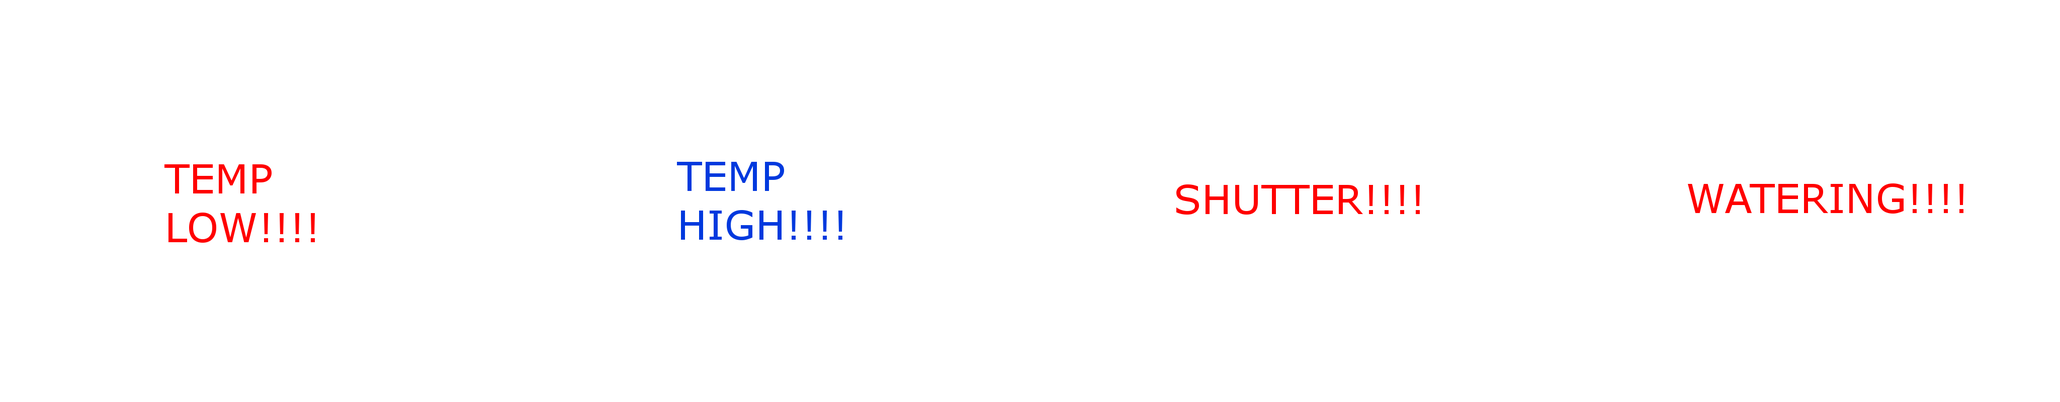
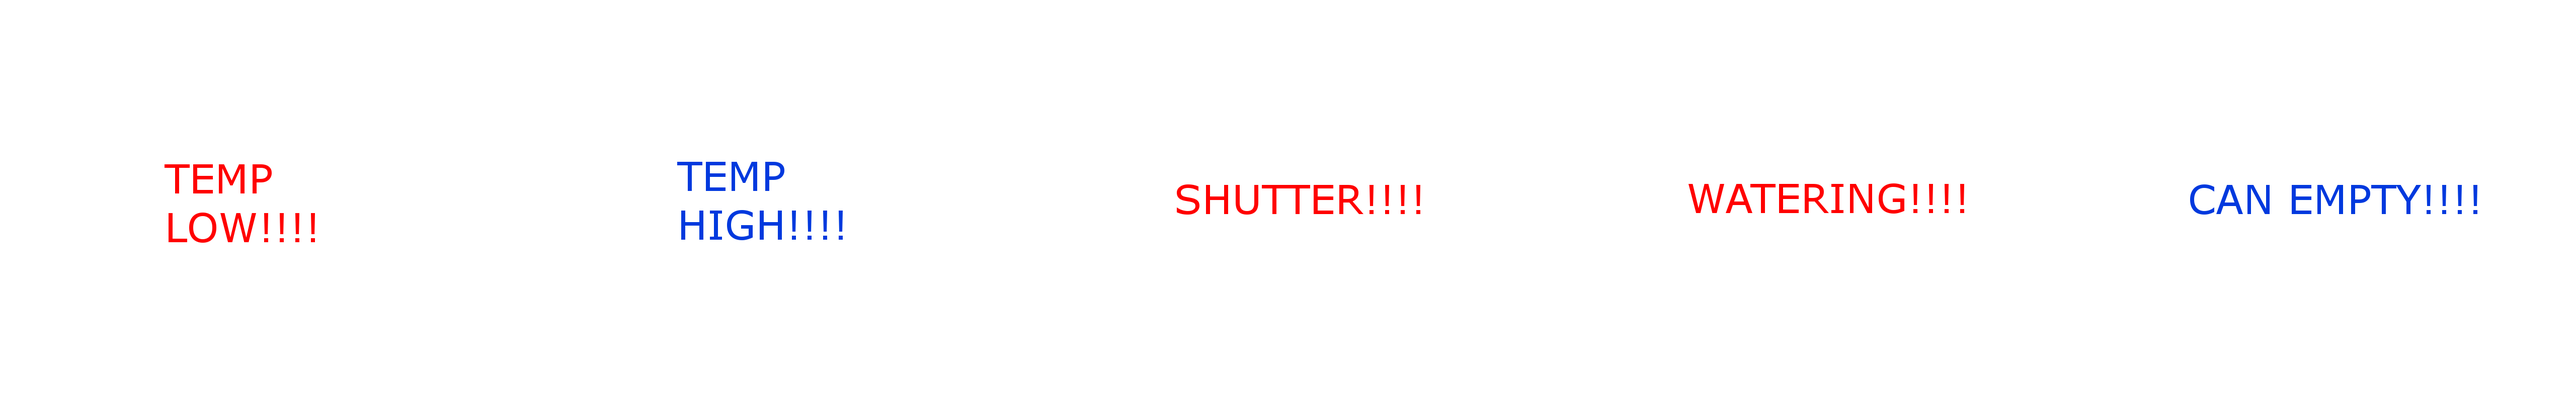
removed tutorialinputadapter; added tutorial for refilling the can

diff --git a/core/src/com/thetriumvirate/game/TutorialManager.java b/core/src/com/thetriumvirate/game/TutorialManager.java
@@ -1,6 +1,5 @@
 package com.thetriumvirate.game;
 
-import com.badlogic.gdx.InputAdapter;
 import com.badlogic.gdx.graphics.Texture;
 import com.badlogic.gdx.graphics.g2d.SpriteBatch;
 import com.badlogic.gdx.graphics.g2d.TextureRegion;
@@ -14,7 +13,7 @@ public abstract class TutorialManager {
 	private static TextureRegion[] tex_regions;
 	
 	public static enum TutState{
-		TEMP_LOW(0), TEMP_HIGH(1), SHUTTER(2), WATERING(3);
+		TEMP_LOW(0), TEMP_HIGH(1), SHUTTER(2), WATERING(3), CAN_EMPTY(4);
 		
 		private int texIndex;
 		private boolean isShown, hasBeenShown;
@@ -65,25 +64,6 @@ public abstract class TutorialManager {
 	}
 	
 	public static void dispatch(Main game) {
-		game.assetmanager.load(RES_TEX, Texture.class);
-	}
-	
-	public static TutorialInputAdapter getInputAdapter() {
-		if(adapter == null)
-			adapter = new TutorialInputAdapter();
-		
-		return adapter;
-	}
-	
-	private static TutorialInputAdapter adapter;
-	
-	private static class TutorialInputAdapter extends InputAdapter{
-		@Override
-		public boolean touchUp(int screenX, int screenY, int pointer, int button) {
-//			for(TutState ts : TutorialManager.TutState.values())
-//				ts.triggerStop();
-			
-			return false;
-		}
+		game.assetmanager.unload(RES_TEX);
 	}
 }

diff --git a/core/src/com/thetriumvirate/game/WateringCan.java b/core/src/com/thetriumvirate/game/WateringCan.java
@@ -111,11 +111,11 @@ public class WateringCan extends InputAdapter{
 				this.tap.setWaterRunning(false);
 			}
 		} else if(this.isSelected() && this.wateringPlants) {
-			// TODO DEBUGGING --> uncomment
-			
 			this.fillState -= WATERING_SPEED * delta;
 			
 			if(this.fillState < 0.0f) {
+				TutorialManager.TutState.CAN_EMPTY.triggerStart();
+				
 				this.fillState = 0.0f;
 				this.wateringPlants = false;
 				waterSound.stop();
@@ -178,6 +178,7 @@ public class WateringCan extends InputAdapter{
 					return true;
 				} else if(this.tap.checkTapClick(screenX, screenY) && this.fillState < MAX_FILL) {
 					this.tap.setWaterRunning(true);
+					TutorialManager.TutState.CAN_EMPTY.triggerStop();
 				}
 			} else {
 				if(this.tap.checkAllClicked(screenX,/* Main.WINDOW_HEIGHT - */screenY)) {

diff --git a/core/src/com/thetriumvirate/game/GameScreen.java b/core/src/com/thetriumvirate/game/GameScreen.java
@@ -80,8 +80,6 @@ public final class GameScreen implements Screen {
 		Gdx.gl.glClearColor(1, 1, 1, 1);
 		
 		InputMultiplexer inputmultiplexer = new InputMultiplexer();
-
-		inputmultiplexer.addProcessor(TutorialManager.getInputAdapter());
 		
 		this.tap = new Tap(game);
 		inputmultiplexer.addProcessor(this.tap);
